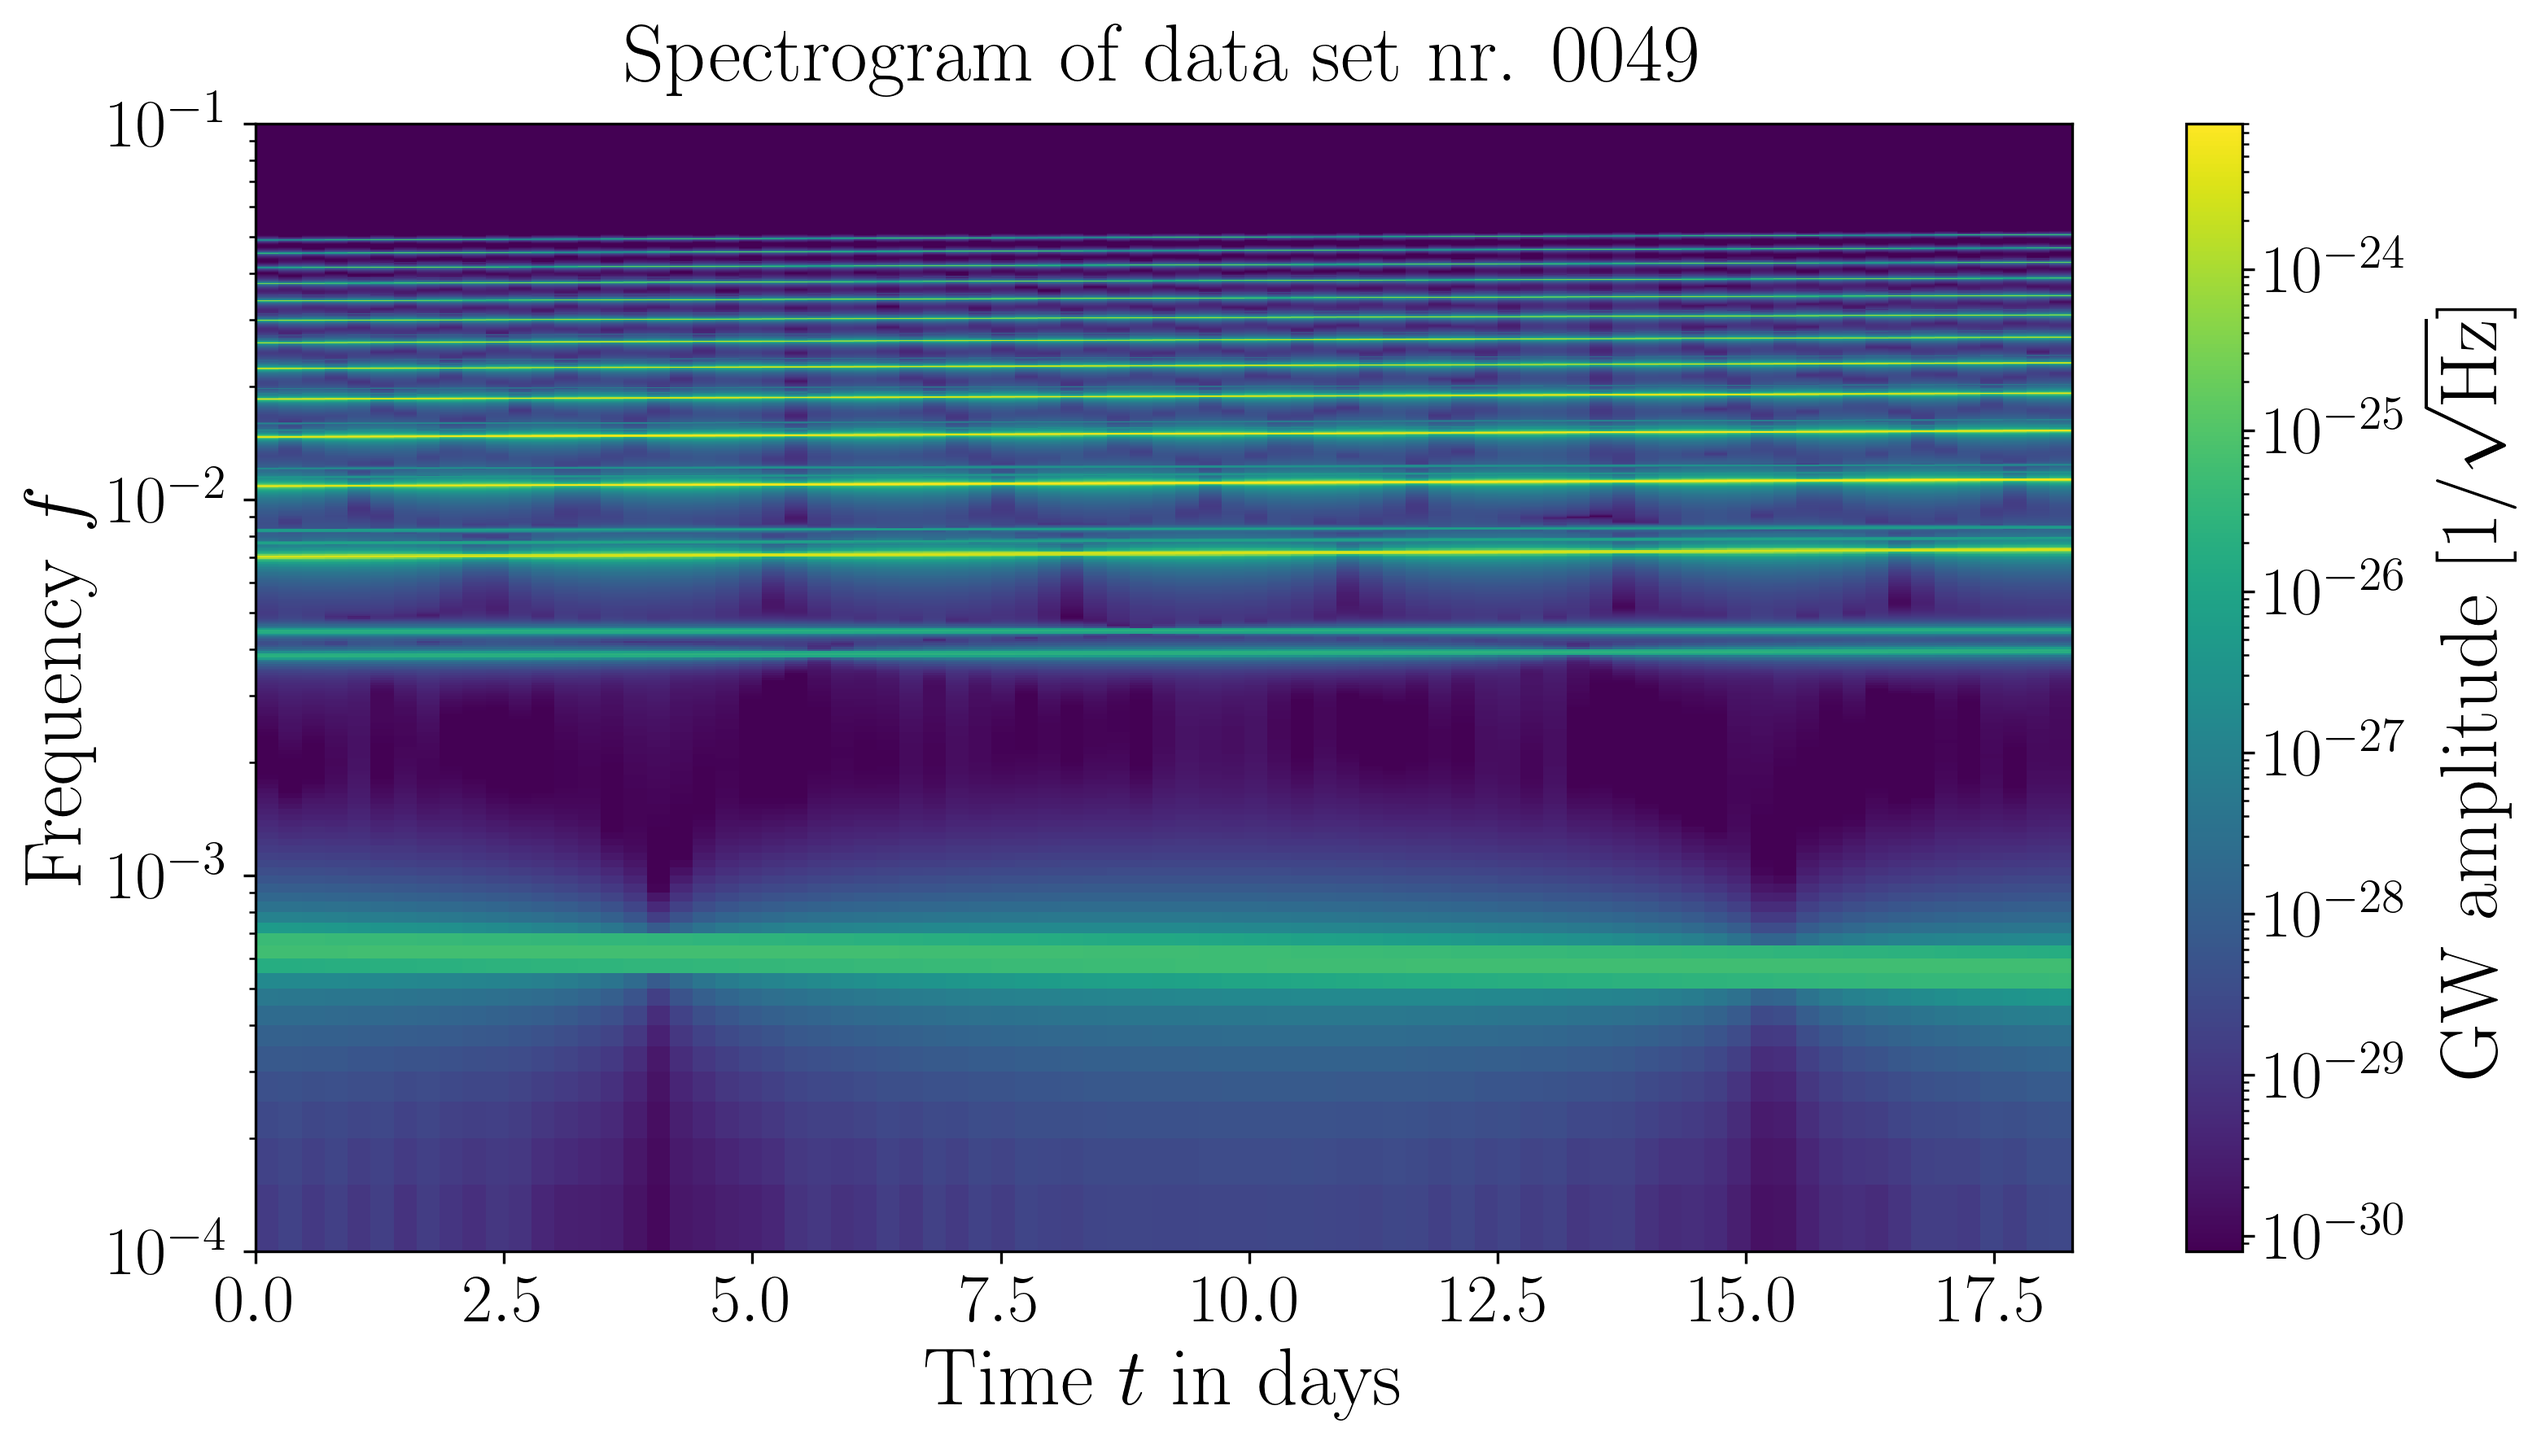
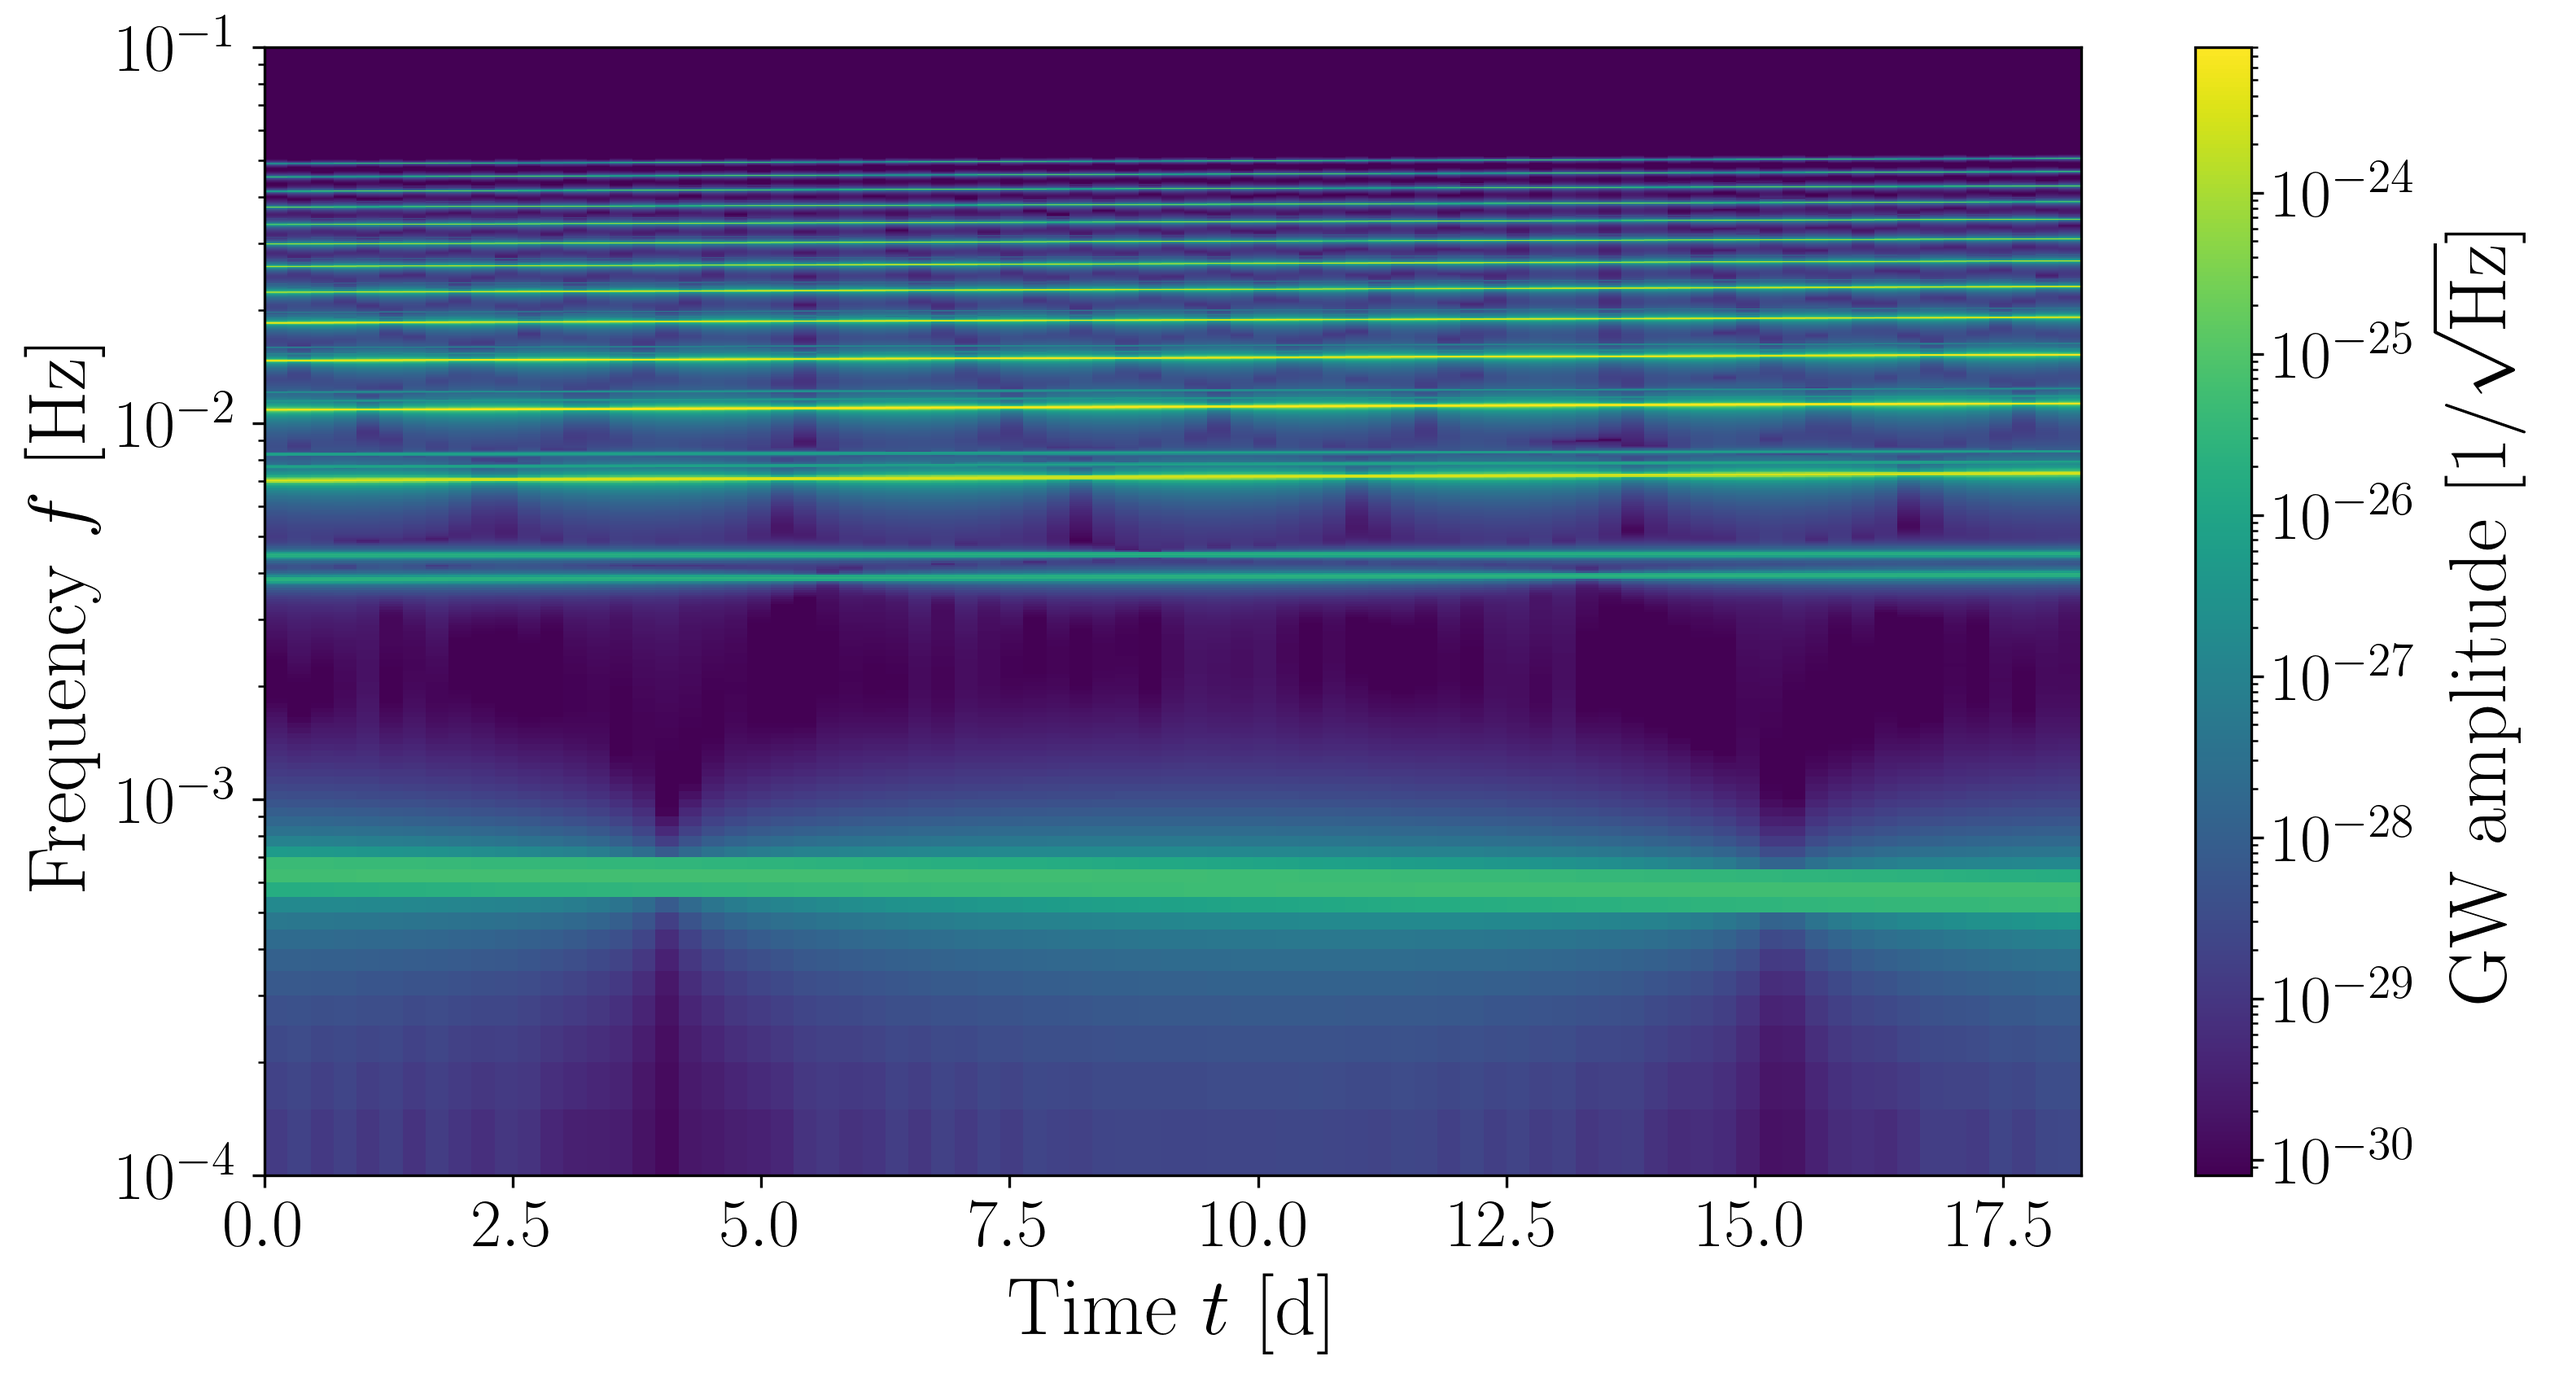
new plots with [....] bruh

diff --git a/thesis_plots/plot.py b/thesis_plots/plot.py
@@ -22,17 +22,17 @@ plt.rcParams['savefig.pad_inches'] = 0.1
 #plt.rcParams['savefig.transparent'] = True
 plt.rcParams['figure.figsize'] = (12, 6)
 
-n = 49
+# n = 49
 
-# parameter = np.genfromtxt("/hpcwork/cg457676/data/parameters/parameters_0.csv", delimiter = ",")[n]
+# # parameter = np.genfromtxt("/hpcwork/cg457676/data/parameters/parameters_0.csv", delimiter = ",")[n]
 # strain = np.genfromtxt("/hpcwork/cg457676/data/strains/h_{:05}.csv".format(n), delimiter = ",", dtype = complex)
-spec0 = np.swapaxes(np.genfromtxt("/hpcwork/cg457676/data/spectrograms/spec_{:05}.csv".format(n), delimiter = ","), 0, 1)
+# spec0 = np.swapaxes(np.genfromtxt("/hpcwork/cg457676/data/spectrograms/spec_{:05}.csv".format(n), delimiter = ","), 0, 1)
 
-# parameter[0] = np.log10(parameter[0])
+# # parameter[0] = np.log10(parameter[0])
 
-# np.savetxt("./thesis_plots/chapter_4/parameter.csv", parameter, delimiter = ",")
+# # np.savetxt("./thesis_plots/chapter_4/parameter.csv", parameter, delimiter = ",")
 
-# Strain plot
+# # Strain plot
 # fig, ax = plt.subplots()
 
 # N = 1000
@@ -42,21 +42,18 @@ spec0 = np.swapaxes(np.genfromtxt("/hpcwork/cg457676/data/spectrograms/spec_{:05
 
 
 # ax.plot(t, y * 1E25, color = "#e60049")
-# ax.set_ylabel("Strain $h_+ / 10^{-25}$")
-# ax.set_xlabel("Time $t / \mathrm{s}$")
+# ax.set_ylabel("Strain $h_+$ [$10^{-25}$]")
+# ax.set_xlabel("Time $t$ [s]")
 # ax.set_title("Strain of data set nr. {:04}".format(n), y = 1.02)
 
 # ax.grid()
 
 import matplotlib.colors as colors
 
-# plt.savefig("./thesis_plots/chapter_4/strain.png")
+# plt.savefig("./thesis_plots/plots/chapter_4/strain.png")
 
 spec = np.swapaxes(np.genfromtxt("./thesis_plots/plots/chapter_5/spec_val.csv", delimiter = ","), 0, 1)
 
-spec = spec - spec0
-
-spec[spec < 1E-40] = 1E-40
 
 # Plot spectrogram
 fig, ax = plt.subplots()
@@ -66,14 +63,14 @@ y = (np.arange(2E3 + 1) + 0.5) * 5E-5
 z = spec
 
 
-pc = ax.pcolormesh(x, y, z, norm = colors.LogNorm(vmin = np.max(spec) * 1E-6, vmax = np.max(spec)))
+pc = ax.pcolormesh(x, y, z, norm = colors.LogNorm(vmin = np.max(z) * 1E-6, vmax = np.max(z)))
 ax.set_yscale("log")
 
 ax.set_ylim(1E-4, 1E-1)
 
 
-ax.set_ylabel("Frequency $f$")
-ax.set_xlabel("Time $t$ in days")
+ax.set_ylabel("Frequency $f$ [Hz]")
+ax.set_xlabel("Time $t$ [d]")
 # ax.colorbar(label=r'Gravitational wave amplitude [1/$\sqrt{\mathrm{Hz}}$]')
 
 plt.colorbar(pc, label=r'GW amplitude [1/$\sqrt{\mathrm{Hz}}$]')
@@ -82,4 +79,4 @@ plt.colorbar(pc, label=r'GW amplitude [1/$\sqrt{\mathrm{Hz}}$]')
 
 ax.grid(False)
 
-plt.savefig("./thesis_plots/plots/chapter_5/Delta.png")
+plt.savefig("./thesis_plots/plots/chapter_5/specCorr.png")

diff --git a/thesis_plots/plot_spec.py b/thesis_plots/plot_spec.py
@@ -206,6 +206,7 @@ p3[4] = 16
 
 par = [p0, p1, p2, p3]
 
+
 # for r in rM:
 #     p0[0] = r
 #     par.append(p0)
@@ -226,43 +227,43 @@ specs = gen_specs(h)
 # t = np.arange(len(h)) * dt
 
 # ax.plot(t, h, color = "#e60049")
-# ax.set_xlabel("Time $t$ / s")
-# ax.set_ylabel("Strain $h_+ / 10^{-23}$")
+# ax.set_xlabel("Time $t$ [s]")
+# ax.set_ylabel("Strain $h_+$ [$10^{-23}$]")
 # ax.grid(True)
 
 # plt.savefig("./thesis_plots/plots/chapter_6/reference_h.png")
 
 
-import matplotlib.colors as colors
+# import matplotlib.colors as colors
 
-names = ["reference", "a", "e", "p"]
+# names = ["reference", "a", "e", "p"]
 
-for i in range(len(par)):
+# for i in range(len(par)):
 
-    fig, ax = plt.subplots()
+#     fig, ax = plt.subplots()
 
-    x = (np.arange(0, 79) + 0.5) * 2E4 / (3600 * 24)
-    y = (np.arange(2E3 + 1) + 0.5) * 5E-5
-    z = np.swapaxes(specs[i], 0, 1)
-
-
-    pc = ax.pcolormesh(x, y, z, norm = colors.LogNorm(vmin = np.max(z) * 1E-6, vmax = np.max(z)))
-    ax.set_yscale("log")
-
-    ax.set_ylim(1E-4, 1E-1)
+#     x = (np.arange(0, 79) + 0.5) * 2E4 / (3600 * 24)
+#     y = (np.arange(2E3 + 1) + 0.5) * 5E-5
+#     z = np.swapaxes(specs[i], 0, 1)
 
 
-    ax.set_ylabel("Frequency $f$ in Hz")
-    ax.set_xlabel("Time $t$ in days")
-    # ax.colorbar(label=r'Gravitational wave amplitude [1/$\sqrt{\mathrm{Hz}}$]')
+#     pc = ax.pcolormesh(x, y, z, norm = colors.LogNorm(vmin = np.max(z) * 1E-6, vmax = np.max(z)))
+#     ax.set_yscale("log")
 
-    plt.colorbar(pc, label=r'GW amplitude [1/$\sqrt{\mathrm{Hz}}$]')
-    # ax.set_title("Spectrogram of data set nr. {:04}".format(n), y = 1.02)
+#     ax.set_ylim(1E-4, 1E-1)
 
 
-    ax.grid(False)
+#     ax.set_ylabel("Frequency $f$ [Hz]")
+#     ax.set_xlabel("Time $t$ [d]")
+#     # ax.colorbar(label=r'Gravitational wave amplitude [1/$\sqrt{\mathrm{Hz}}$]')
 
-    plt.savefig("./thesis_plots/plots/chapter_6/{}_spec.png".format(names[i]))
+#     plt.colorbar(pc, label=r'GW amplitude [1/$\sqrt{\mathrm{Hz}}$]')
+#     # ax.set_title("Spectrogram of data set nr. {:04}".format(n), y = 1.02)
+
+
+#     ax.grid(False)
+
+#     plt.savefig("./thesis_plots/plots/chapter_6/{}_spec.png".format(names[i]))
 
 
 
